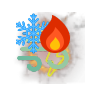
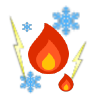
cambiata icona wood

diff --git a/client/src/Game.css b/client/src/Game.css
@@ -213,13 +213,13 @@ body{
     text-align: center;
     font-size: 26px;
     letter-spacing: 3px;
-    color: rgb(45, 240, 240);
+    color: rgb(255, 255, 255);
     background-color: #8a2771;
     height: min-content;
     width: 300px;
     padding: auto;
     align-self: flex-end;
-    text-shadow: rgb(0, 0, 0) 6px 2px 2px;
+    text-shadow: rgb(0, 0, 0) 3px 1px 1px;
     border-radius: 10px;
     box-shadow: 0 0 20px 0 rgba(0, 0, 0, 0.2), 0 5px 5px 0 rgba(0, 0, 0, 0.24);
     text-align: center;
@@ -233,7 +233,7 @@ body{
     padding: 5px;
     grid-template-columns: repeat(3, 1fr);
     grid-template-rows: repeat(2,1fr);
-    background-color: rgb(86, 163, 207);
+    background-color: rgb(224, 194, 211);
     border-radius: 15px;
     border: 5px solid #8a2771;
     box-shadow: 0 0 20px 0 rgba(0, 0, 0, 0.2), 0 5px 5px 0 rgba(0, 0, 0, 0.24);
@@ -251,8 +251,8 @@ body{
     font-weight: 700;
     text-align: center;
     font-size: 18px;
-    color: rgb(231, 196, 24);
-    text-shadow: rgb(0, 0, 0) 1px 1px 9px;
+    color: rgb(46, 43, 43);
+    text-shadow: rgb(145, 142, 142) 1px 1px 1px ;
     margin: auto;
 }
 .imgAttributeLegenda{

diff --git a/client/src/Game.js b/client/src/Game.js
@@ -16,7 +16,7 @@ import d10img from './images/d10.png'
 import d12img from './images/d12.png'
 
 import steelImg from './components/Skill/iconsAttribute/steel.png'
-import woodImg from './components/Skill/iconsAttribute/wood.png'
+import woodImg from './components/Skill/iconsAttribute/wood7.png'
 import leatherImg from './components/Skill/iconsAttribute/leather.png'
 import elementalImg from './components/Skill/iconsAttribute/elemental.png'
 import arcaneImg from './components/Skill/iconsAttribute/arcane.png'

diff --git a/client/src/components/Skill/Skill.css b/client/src/components/Skill/Skill.css
@@ -16,11 +16,11 @@
 
 
 .crafting{
-    background: #ffc58b;
+    background: #e2c2a2;
 }
 
 .magic{
-    background: #ffa492;
+    background: #fdb7a9;
 }
 
 
@@ -58,14 +58,11 @@
     visibility: hidden;
 }
 .attributeImg{
-    height: 20px;
-    width: 20x;
+    height: 24px;
+    width: 24x;
     z-index: 1;
     justify-self: end;
     margin-right: -10px;
-    /* position: absolute;
-    left: -16px;
-    margin-left: 3px; */
 }
 .img1{
     grid-area: img1;

diff --git a/client/src/components/Skill/Skill.js b/client/src/components/Skill/Skill.js
@@ -1,7 +1,7 @@
 import React, { useEffect, useState } from 'react'
 import './Skill.css'
 import steelImg from './iconsAttribute/steel.png'
-import woodImg from './iconsAttribute/wood.png'
+import woodImg from './iconsAttribute/wood7.png'
 import leatherImg from './iconsAttribute/leather.png'
 import elementalImg from './iconsAttribute/elemental.png'
 import arcaneImg from './iconsAttribute/arcane.png'
